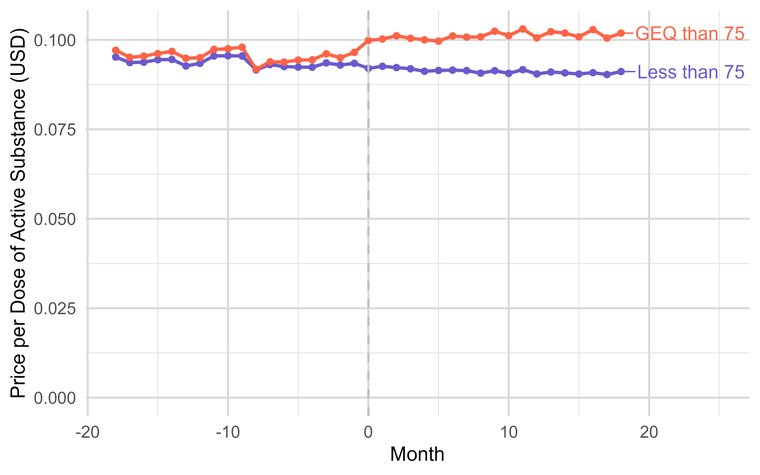
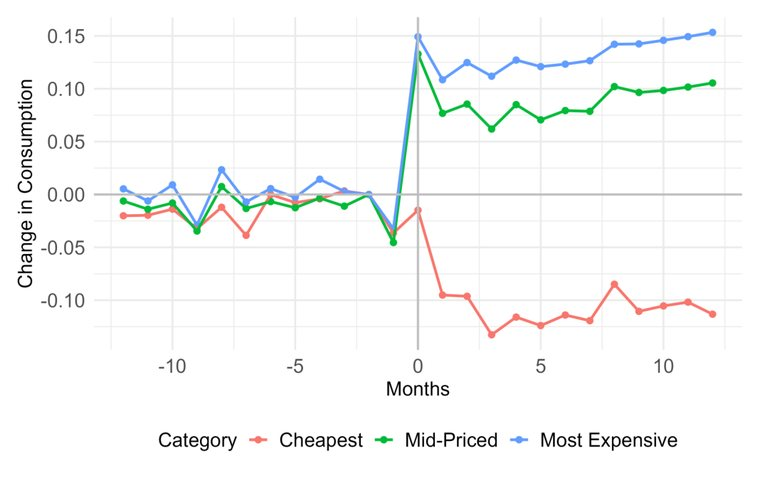
Site: title fix, HTML CV, price-tier figure, nav Research/CV
- Title is Assistant Professor of Business everywhere (hero, timeline, sidebar, meta)
- CV page rendered as HTML sections (positions, education, fields, publications,
  working papers, work in progress, presentations, teaching, experience, honors,
  skills) with a link to the PDF instead of an embedded viewer
- Drugs 75+ card: figure is now consumption by within-group price tier (Figure 8)
- Lead and Household Penalty badges read "Working paper"
- GitHub removed from sidebar and contact; Teaching page and nav entry removed

diff --git a/_sass/_custom.scss b/_sass/_custom.scss
@@ -404,17 +404,32 @@ a.kz-card:hover .kz-card-cta { text-decoration: underline; }
 .kz-wip li:last-child { border-bottom: 0; }
 
 /* ---------- CV page ---------- */
-.kz-pdf { margin-top: 1.2em; }
-.kz-pdf object,
-.kz-pdf iframe {
-  width: 100%;
-  height: 85vh;
-  min-height: 600px;
-  border: 1px solid #e3e7ec;
-  border-radius: 8px;
-  background: #fff;
+.kz-cv-head {
+  display: flex;
+  flex-wrap: wrap;
+  align-items: center;
+  justify-content: space-between;
+  gap: 0.6em 1em;
+  margin: -0.4em 0 1.6em;
 }
-.kz-pdf p { color: #5b6773; font-size: 0.9em; }
+.kz-cv-head p { margin: 0; color: #5b6773; font-size: 0.95em !important; }
+.kz-cv .kz-timeline li { grid-template-columns: 6.5em 1fr; padding: 0.55em 0; }
+.kz-cv .kz-what { color: #3b4653; }
+.kz-cv .kz-what em { font-style: italic; color: #3b4653; }
+.kz-cv .kz-what a { color: #1f2933; }
+.kz-cv .kz-what a:hover { color: #1f5f8b; }
+.kz-cv .kz-what .kz-sub {
+  display: block;
+  color: #5b6773;
+  font-size: 0.9em;
+  margin-top: 0.15em;
+}
+.kz-cv .kz-what .kz-sub + .kz-sub { margin-top: 0.05em; }
+.kz-cv .kz-badge { margin-left: 0.4em; vertical-align: middle; }
+.kz-cv .kz-note { color: #5b6773; font-size: 0.85em !important; margin: 0.6em 0 0; }
+.kz-cv .kz-plain { list-style: none; margin: 0; padding: 0; }
+.kz-cv .kz-plain li { padding: 0.35em 0; font-size: 0.95em !important; color: #3b4653; }
+.kz-cv .kz-plain li strong { color: #1f2933; font-weight: 600; }
 
 /* ---------- Footer ---------- */
 .page__footer {

diff --git a/_pages/cv.md b/_pages/cv.md
@@ -3,15 +3,122 @@ layout: single
 title: "Curriculum Vitae"
 permalink: /cv/
 author_profile: true
-excerpt: "Academic CV of Krzysztof Zaremba, Assistant Professor of Economics at ITAM Business School."
+excerpt: "CV of Krzysztof Zaremba, Assistant Professor of Business at ITAM Business School."
 ---
 
-<div class="kz-actions" style="margin-top:0">
-  <a class="kz-btn kz-btn--primary" href="/files/Krzysztof_Zaremba_A_CV.pdf" target="_blank" rel="noopener"><i class="fas fa-fw fa-download"></i> Download CV (PDF)</a>
+<div class="kz-cv">
+
+<div class="kz-cv-head">
+  <p>Assistant Professor of Business, ITAM Business School, Mexico City</p>
+  <a class="kz-btn kz-btn--ghost" href="/files/Krzysztof_Zaremba_A_CV.pdf" target="_blank" rel="noopener"><i class="fas fa-fw fa-file-pdf"></i> PDF version</a>
 </div>
 
-<div class="kz-pdf">
-  <object data="/files/Krzysztof_Zaremba_A_CV.pdf#view=FitH" type="application/pdf">
-    <p>Your browser cannot display the PDF here. <a href="/files/Krzysztof_Zaremba_A_CV.pdf">Open the CV in a new tab</a>.</p>
-  </object>
+<section class="kz-section kz-section--first">
+  <h2 class="kz-section-title">Positions</h2>
+  <ul class="kz-timeline">
+    <li><div class="kz-when">2023 &ndash;</div><div class="kz-what"><strong>Assistant Professor of Business</strong><span class="kz-sub">Instituto Tecnol&oacute;gico Aut&oacute;nomo de M&eacute;xico (ITAM), Business School</span></div></li>
+  </ul>
+</section>
+
+<section class="kz-section">
+  <h2 class="kz-section-title">Education</h2>
+  <ul class="kz-timeline">
+    <li><div class="kz-when">2023</div><div class="kz-what"><strong>Ph.D. in Economics</strong> &middot; Columbia University<span class="kz-sub">Thesis: &ldquo;Essays in Health Economics&rdquo; &middot; Advisors: Douglas Almond, Pierre-Andr&eacute; Chiappori, Brendan O&rsquo;Flaherty</span><span class="kz-sub">M.Phil. in Economics, 2020 &middot; M.A. in Economics, 2019</span></div></li>
+    <li><div class="kz-when">2016</div><div class="kz-what"><strong>M.Sc. in Economic and Social Sciences</strong> &middot; Bocconi University<span class="kz-sub">Thesis: &ldquo;Spreading of Diseases on the Sexual Networks&rdquo; &middot; Supervisors: Paolo Pin, Alessa Melagaro</span></div></li>
+    <li><div class="kz-when">2014</div><div class="kz-what"><strong>B.A. in Social Sciences</strong> &middot; Sciences Po Paris<span class="kz-sub">Exchange: General Course at the London School of Economics, 2013&ndash;2014</span></div></li>
+  </ul>
+</section>
+
+<section class="kz-section">
+  <h2 class="kz-section-title">Fields</h2>
+  <ul class="kz-plain">
+    <li><strong>Primary:</strong> Health Economics</li>
+    <li><strong>Secondary:</strong> Applied Econometrics, Family Economics, Networks</li>
+  </ul>
+</section>
+
+<section class="kz-section">
+  <h2 class="kz-section-title">Publications</h2>
+  <ul class="kz-timeline">
+    <li><div class="kz-when">2026</div><div class="kz-what"><a href="https://doi.org/10.1016/j.jpubeco.2026.105687" target="_blank" rel="noopener"><strong>The Effect of Dating Markets on Maternal and Neonatal Health</strong></a><span class="kz-sub"><em>Journal of Public Economics</em>, 260, 105687</span></div></li>
+    <li><div class="kz-when">2026</div><div class="kz-what"><a href="https://doi.org/10.1002/hec.70083" target="_blank" rel="noopener"><strong>The Financial and Behavioral Effects of Free Prescription Drugs: Evidence from a Policy Discontinuity in Poland</strong></a> (with Gosia Majewska)<span class="kz-sub"><em>Health Economics</em>, 35(5), 796&ndash;830</span></div></li>
+    <li><div class="kz-when">2025</div><div class="kz-what"><a href="https://doi.org/10.1016/j.energy.2025.138473" target="_blank" rel="noopener"><strong>Decarbonizing Power Generation: Integrating Green Hydrogen in the Economic Dispatch of Combined-Cycle Power Plants</strong></a> (with Roberto Jair Lorenzo Diaz, Jaime Robles Garc&iacute;a, Mohamed Badaoui)<span class="kz-sub"><em>Energy</em>, 336, 138473</span></div></li>
+    <li><div class="kz-when">2024</div><div class="kz-what"><a href="https://doi.org/10.1093/aje/kwae453" target="_blank" rel="noopener"><strong>School Closures and Respiratory Infections Transmission and Mortality: Evidence from School Holidays in Poland</strong></a><span class="kz-sub"><em>American Journal of Epidemiology</em></span></div></li>
+    <li><div class="kz-when">2023</div><div class="kz-what"><a href="https://doi.org/10.1002/hec.4660" target="_blank" rel="noopener"><strong>Opening of Hotels and Ski Facilities: Impact on Mobility, Spending, and Covid-19 Outcomes</strong></a><span class="kz-sub"><em>Health Economics</em>, 32(5), 1148&ndash;1180</span></div></li>
+  </ul>
+</section>
+
+<section class="kz-section">
+  <h2 class="kz-section-title">Working papers</h2>
+  <ul class="kz-plain">
+    <li><a href="/files/Majewska_Zaremba.pdf" target="_blank" rel="noopener"><strong>Universal Subsidies in Pharmaceutical Markets: Lessons from Poland&rsquo;s Drugs 75+ Policy</strong></a> (with Gosia Majewska)</li>
+    <li><a href="https://papers.ssrn.com/sol3/papers.cfm?abstract_id=5214598" target="_blank" rel="noopener"><strong>Lead Effects Through Generations</strong></a> (with Xinming Du)</li>
+    <li><a href="/files/Household_penalty_Chicago.pdf" target="_blank" rel="noopener"><strong>Household Penalty: Gendered Costs of Spousal Infectious Diseases on Labor and Health</strong></a> (with Xinming Du)</li>
+  </ul>
+</section>
+
+<section class="kz-section">
+  <h2 class="kz-section-title">Work in progress</h2>
+  <ul class="kz-plain">
+    <li>Imbalanced Sex Ratios and Teen Fertility</li>
+    <li>Multisourcing and Pharmaceutical Shortages: Evidence from a Regression Discontinuity Design</li>
+    <li>Longer Workdays and the Quality of Physician Decision-Making</li>
+    <li>Prescribing Under Scarcity: How Physicians Respond to Medication Shortages</li>
+    <li>Beware of Fake Friends: Spurious Links and Peer Effects in Networks</li>
+  </ul>
+</section>
+
+<section class="kz-section">
+  <h2 class="kz-section-title">Presentations</h2>
+  <ul class="kz-timeline">
+    <li><div class="kz-when">2026</div><div class="kz-what">XXIII Ridge Forum Health Economics Workshop; 2nd Tex-Mex IO Conference; 2026 Health Economics Initiative Conference (Becker Friedman Institute for Economics); 7th Swiss Health Economics Workshop*<span class="kz-sub">scheduled</span></div></li>
+    <li><div class="kz-when">2025</div><div class="kz-what">UNAM &ndash; Institute of Economic Research; ASHEcon Nashville; American-European Health Economics Study Group, Oxford*; 11th IRDES-LIRAES Workshop on Applied Health Economics and Policy Evaluation; Toulouse School of Economics &ndash; 3rd Health Economics Conference*; EuHEA Seminar Series*; Warsaw University, Economics Department*; National Health Fund, Poland*; XXII Ridge Forum &ndash; Environmental Economics Workshop</div></li>
+    <li><div class="kz-when">2024</div><div class="kz-what">ASHEcon San Diego; MEA Chicago; Barcelona Summer Forum; NBER Summer Institute</div></li>
+    <li><div class="kz-when">2023</div><div class="kz-what">University of Pittsburgh; University of Connecticut; University of Texas Health Science Center at Houston; Society of Economics of the Household (SEHO Copenhagen); Aix-Marseille School of Economics; Mathematica; University at Buffalo; Urban Institute; SMYE Collegio Carlo Alberto; ITAM; Workshop on Healthy Ageing and Adult Caregiving (LSE&ndash;UPenn)</div></li>
+  </ul>
+  <p class="kz-note">* presented by coauthor</p>
+</section>
+
+<section class="kz-section">
+  <h2 class="kz-section-title">Teaching</h2>
+  <ul class="kz-timeline">
+    <li><div class="kz-when">2023 &ndash;</div><div class="kz-what"><strong>Business Forecasting</strong> &middot; ITAM<span class="kz-sub">Main instructor, Fall 2023 &ndash; present</span></div></li>
+    <li><div class="kz-when">2018 &ndash; 2020</div><div class="kz-what"><strong>Principles of Economics</strong> &middot; Columbia University<span class="kz-sub">Teaching assistant (Prof. Prajit Dutta, Fall 2018; Prof. Brendan O&rsquo;Flaherty, Spring 2019 and Spring 2020)</span></div></li>
+    <li><div class="kz-when">2019</div><div class="kz-what"><strong>Introduction to Econometrics</strong> &middot; Columbia University<span class="kz-sub">Teaching assistant (Prof. Tamrat Gashaw, Fall 2019)</span></div></li>
+  </ul>
+</section>
+
+<section class="kz-section">
+  <h2 class="kz-section-title">Professional experience</h2>
+  <ul class="kz-timeline">
+    <li><div class="kz-when">2019 &ndash; 2021</div><div class="kz-what"><strong>Research Assistant</strong>, Prof. Michael Best &middot; Columbia University<span class="kz-sub">Tax evasion in the Paraguayan production network (with the Paraguayan Tax Authority)</span></div></li>
+    <li><div class="kz-when">2019</div><div class="kz-what"><strong>Research Assistant</strong>, Prof. Jos&eacute; L. Montiel Olea &middot; Columbia University<span class="kz-sub">Review of research on educational peer effects in networks</span></div></li>
+    <li><div class="kz-when">2019</div><div class="kz-what"><strong>Research Assistant</strong>, Prof. Alessandra Casella &middot; Columbia University<span class="kz-sub">Analysis of data from a lab experiment in political economy</span></div></li>
+    <li><div class="kz-when">2017</div><div class="kz-what"><strong>Trainee, DataLab</strong> &middot; European Commission, DG HR, Brussels<span class="kz-sub">Impact of mental health and staff well-being on careers</span></div></li>
+    <li><div class="kz-when">2016 &ndash; 2017</div><div class="kz-what"><strong>Research Assistant</strong>, Prof. Fernando Vega-Redondo &middot; Bocconi University<span class="kz-sub">Spanish production network (with the Spanish Tax Authority); field experiment on peer effects in entrepreneurship in Accra, Ghana</span></div></li>
+  </ul>
+</section>
+
+<section class="kz-section">
+  <h2 class="kz-section-title">Honors and awards</h2>
+  <ul class="kz-timeline">
+    <li><div class="kz-when">2022</div><div class="kz-what">Dissertation Fellowship, Department of Economics, Columbia University</div></li>
+    <li><div class="kz-when">2020</div><div class="kz-what">Data Purchase Grant, Program for Economic Research, Columbia University</div></li>
+    <li><div class="kz-when">2017 &ndash; 2021</div><div class="kz-what">Dean&rsquo;s Fellowship, Department of Economics, Columbia University</div></li>
+    <li><div class="kz-when">2016</div><div class="kz-what">Summa Cum Laude, Bocconi University</div></li>
+    <li><div class="kz-when">2014 &ndash; 2016</div><div class="kz-what">Bocconi Merit Award</div></li>
+    <li><div class="kz-when">2014</div><div class="kz-what">Cum Laude, Sciences Po Paris</div></li>
+    <li><div class="kz-when">2012 &ndash; 2014</div><div class="kz-what">Award for top student, Sciences Po Paris, Dijon campus</div></li>
+  </ul>
+</section>
+
+<section class="kz-section">
+  <h2 class="kz-section-title">Skills and service</h2>
+  <ul class="kz-plain">
+    <li><strong>Programming:</strong> R, MATLAB, Python, SQL, Stata, Linux shell scripting</li>
+    <li><strong>Languages:</strong> Polish (native), English, Italian, French (fluent)</li>
+    <li><strong>Refereeing:</strong> American Journal of Health Economics, Preventive Medicine, Young Economists Forum, Journal of Human Resources, Social Science &amp; Medicine</li>
+  </ul>
+</section>
+
 </div>

diff --git a/_pages/publications.md b/_pages/publications.md
@@ -19,18 +19,18 @@ excerpt: "Working papers, publications, and work in progress by Krzysztof Zaremb
         <summary>Abstract</summary>
         <div class="kz-abstract">
           <p>Eliminating prices for socially valuable goods can improve access but also distort demand and raise fiscal cost. We study this trade-off in the context of a policy adopted by many governments to expand pharmaceutical access: full elimination of copayments at the point of purchase. We ask what are the market and health consequences of full drug subsidies. We exploit Poland&rsquo;s Drugs 75+ reform, which made hundreds of prescription drugs free of charge for seniors above an age threshold. Using administrative reimbursement data over 2014&ndash;2024, we leverage the age-eligibility cutoff and the staggered adoption of drugs into the free list in a robust event-study framework. Consumption rises by about 11% on impact and grows to 14% by twelve months, increasing monotonically in the pre-policy copay. Within chemically equivalent substitutes, patients shift toward higher-priced variants. Together, the additional coverage, quantity, and substitution responses roughly double per-drug government spending. Comparing cohorts reaching the eligibility age just before and just after the reform, we find a significant increase in primary care visits but do not detect effects on specialist visits, hospitalizations, or urgent care over 18 months. Using a structural model of the antihypertensive market, we investigate an alternative design that makes only the cheapest product in each substitute group free: it would deliver 62% of the fiscal savings of repealing the policy while reducing eligible-senior consumption by only 6%.</p>
-          <img src="/images/raw_avg_price_trt.png" alt="Average price paid, treated versus control cohorts" loading="lazy">
+          <img src="/images/Drugs75_price_tiers.png" alt="Change in consumption by within-group price tier around the listing date" loading="lazy">
         </div>
       </details>
     </div>
     </div>
-    <a class="kz-fig" href="/images/raw_avg_price_trt.png" target="_blank" rel="noopener"><img src="/images/thumbs/drugs75.jpg" alt="Price per dose paid by seniors above vs. below the age-75 cutoff" loading="lazy"><span>Price per dose paid by seniors above vs. below the age-75 cutoff</span></a>
+    <a class="kz-fig" href="/images/Drugs75_price_tiers.png" target="_blank" rel="noopener"><img src="/images/thumbs/drugs75.jpg" alt="Change in consumption by within-group price tier around the listing date" loading="lazy"><span>Once drugs become free, purchases shift from the cheapest to mid-priced and most expensive variants</span></a>
   </div>
 
   <div class="kz-paper kz-paper--fig">
     <div class="kz-body">
     <h3><a href="https://papers.ssrn.com/sol3/papers.cfm?abstract_id=5214598" target="_blank" rel="noopener">Lead Effects Through Generations</a></h3>
-    <p class="kz-meta"><span class="kz-authors">with Xinming Du</span><span class="kz-badge kz-badge--wp">Under review</span></p>
+    <p class="kz-meta"><span class="kz-authors">with Xinming Du</span><span class="kz-badge kz-badge--wp">Working paper</span></p>
     <p class="kz-summary">The phase-out of leaded gasoline in Mexico reduced fetal and infant deaths, and the effects of prenatal lead exposure carry over to the next generation in disadvantaged municipalities.</p>
     <div class="kz-links">
       <a href="https://papers.ssrn.com/sol3/papers.cfm?abstract_id=5214598" target="_blank" rel="noopener">SSRN</a>
@@ -49,7 +49,7 @@ excerpt: "Working papers, publications, and work in progress by Krzysztof Zaremb
   <div class="kz-paper kz-paper--fig">
     <div class="kz-body">
     <h3><a href="/files/Household_penalty_Chicago.pdf" target="_blank" rel="noopener">Household Penalty: Gendered Costs of Spousal Infectious Diseases on Labor and Health</a></h3>
-    <p class="kz-meta"><span class="kz-authors">with Xinming Du</span><span class="kz-badge kz-badge--wp">Under review</span></p>
+    <p class="kz-meta"><span class="kz-authors">with Xinming Du</span><span class="kz-badge kz-badge--wp">Working paper</span></p>
     <p class="kz-summary">After a partner&rsquo;s health shock, women&rsquo;s labor supply falls by 15% compared with 10% for men, largely because women are more likely to be infected at home. The gap shrinks as women&rsquo;s share of household income rises.</p>
     <div class="kz-links">
       <a href="/files/Household_penalty_Chicago.pdf" target="_blank" rel="noopener">PDF</a>

diff --git a/_pages/about.md b/_pages/about.md
@@ -1,6 +1,6 @@
 ---
 permalink: /
-excerpt: "Krzysztof Zaremba is an Assistant Professor of Economics at ITAM Business School in Mexico City, working on health economics, networks, and family economics."
+excerpt: "Krzysztof Zaremba is an Assistant Professor of Business at ITAM Business School in Mexico City, working on health economics, networks, and family economics."
 author_profile: true
 redirect_from:
   - /about/
@@ -10,7 +10,7 @@ redirect_from:
 <section class="kz-hero">
   <h1>Krzysztof Zaremba</h1>
   <p class="kz-role">
-    Assistant Professor of Economics
+    Assistant Professor of Business
     <span class="kz-sep">&middot;</span> ITAM Business School
     <span class="kz-sep">&middot;</span> Mexico City
   </p>
@@ -49,7 +49,7 @@ redirect_from:
   <ul class="kz-timeline">
     <li>
       <div class="kz-when">2023 &ndash; present</div>
-      <div class="kz-what"><strong>Assistant Professor of Economics</strong><span>ITAM Business School, Mexico City</span></div>
+      <div class="kz-what"><strong>Assistant Professor of Business</strong><span>ITAM Business School, Mexico City</span></div>
     </li>
     <li>
       <div class="kz-when">2023</div>
@@ -74,6 +74,5 @@ redirect_from:
     <li><i class="fas fa-fw fa-graduation-cap"></i><a href="https://scholar.google.com/citations?user=mQFWPiYAAAAJ&amp;hl=en" target="_blank" rel="noopener">Google Scholar</a></li>
     <li><i class="ai ai-orcid ai-fw"></i><a href="https://orcid.org/0000-0001-9007-3497" target="_blank" rel="noopener">ORCID</a></li>
     <li><i class="fab fa-fw fa-linkedin"></i><a href="https://www.linkedin.com/in/krzysztof-z-743a4b11b" target="_blank" rel="noopener">LinkedIn</a></li>
-    <li><i class="fab fa-fw fa-github"></i><a href="https://github.com/krzysztofzaremba" target="_blank" rel="noopener">GitHub</a></li>
   </ul>
 </section>
